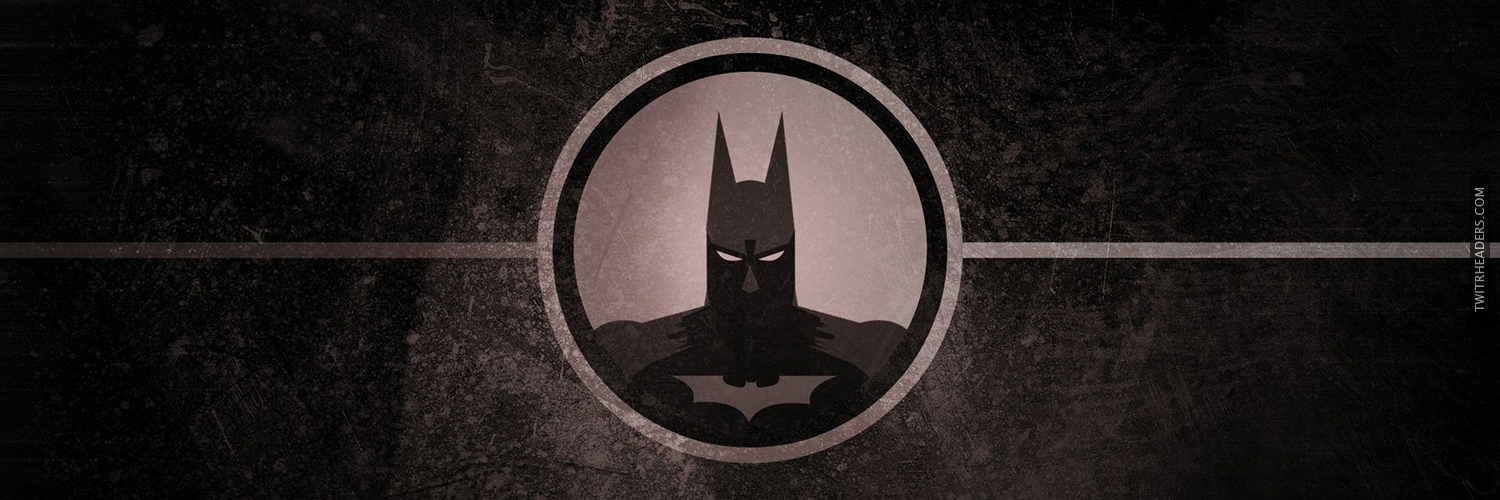
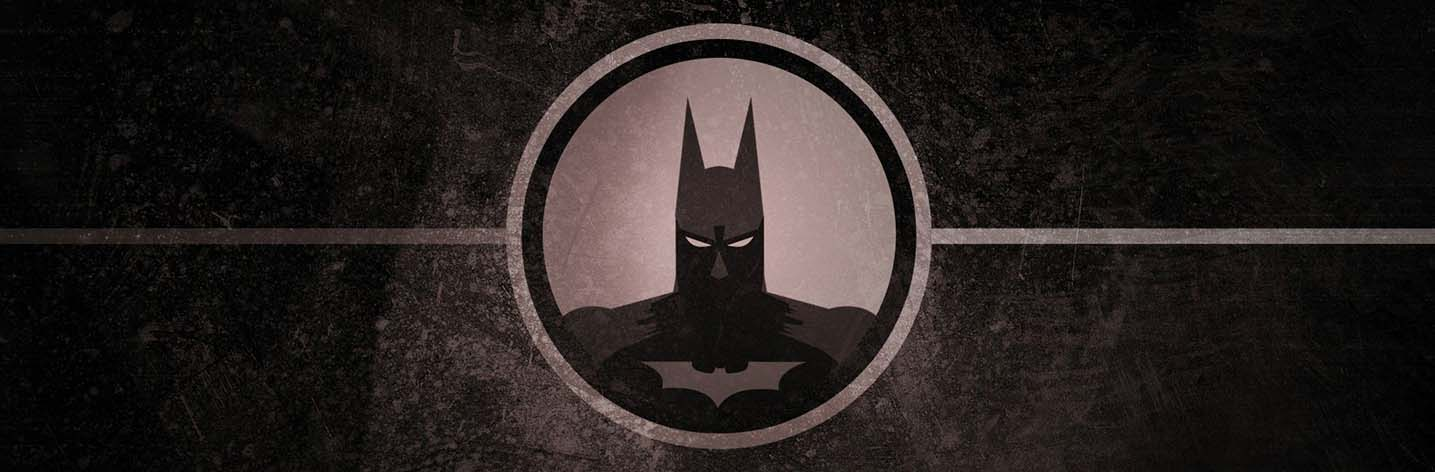
redux setup need to call actions now

diff --git a/src/index.js b/src/index.js
@@ -1,6 +1,8 @@
 import React from 'react'
 import { render } from 'react-dom'
 import { Router, Route, browserHistory } from 'react-router'
+import store from './store'
+import { Provider } from 'react-redux'
 
 import {
   App,
@@ -12,11 +14,13 @@ import {
 import './styles/screen.sass'
 
 render((
-  <Router history={browserHistory}>
-    <Route component={App}>
-      <Route path='/' component={Start} />
-      <Route path='/game/:difficulty' component={Board} />
-      <Route path='/game/:difficulty/:index' component={Game} />
-    </Route>
-  </Router>
+  <Provider store={store}>
+    <Router history={browserHistory}>
+      <Route component={App}>
+        <Route path='/' component={Start} />
+        <Route path='/game/:difficulty' component={Board} />
+        <Route path='/game/:difficulty/:index' component={Game} />
+      </Route>
+    </Router>
+  </Provider>
 ), document.getElementById('root'))

diff --git a/src/reducers/index.js b/src/reducers/index.js
@@ -1,0 +1,21 @@
+export default (state = 0, action) => {
+  switch (action.type) {
+    case 'CORRECTANSWERS':
+      return {
+        incrementCorrect: state.correctAnswers + 1,
+        computerWinCount: state.incorrectAnswers,
+        win: action.false
+      }
+    case 'INCORRECTANSWERS':
+      return {
+        playerWinCount: state.incorrectAnswers + 1,
+        computerWinCount: state.correctAnswers,
+        win: action.false
+      }
+    case 'DIFFICULTY':
+      return {
+        difficulty: state.difficulty
+      }
+    default: return state
+  }
+}

diff --git a/src/styles/screen.sass b/src/styles/screen.sass
@@ -30,7 +30,7 @@ body
   height: 100%
   background-color: #555450
 .display
-  background-image: url('http://twitrheaders.com/wp-content/uploads/2014/05/Batman.jpg')
+  background-image: url('../images/batmanheader.jpg')
   background-size: contain
   display: flex
   justify-content: space-between

diff --git a/src/store.js b/src/store.js
@@ -1,0 +1,7 @@
+import { createStore } from 'redux'
+
+import reducers from './reducers'
+
+const store = createStore(reducers, { correctAnswers: 0, incorrectAnswers: 0, win: false, questions: [], difficulty: 'easy' }, window.devToolsExtension && window.devToolsExtension())
+
+export default store

diff --git a/src/actions/index.js b/src/actions/index.js
@@ -1,0 +1,16 @@
+export function incrementPlayer () {
+  return {
+    type: 'INCREMENTCORRECT'
+  }
+}
+
+export function incrementComputer () {
+  return {
+    type: 'INCREMENTINCORRECT'
+  }
+}
+export function difficulty () {
+  return {
+    type: 'DIFFICULTY'
+  }
+}

diff --git a/src/README.md b/src/README.md
@@ -1,6 +1,7 @@
 #Batman vs The Riddlers
 #TODO
 - Notify user of correct or incorrect answer after increment
-- If Batman solves the riddle, he travels up or disable div
+- If Batman solves the riddle, he travels up 
 - If Batman can't solve the riddle, he travels left
-- change difficulty reset state
+- reset button on modal
+- convert to Redux
